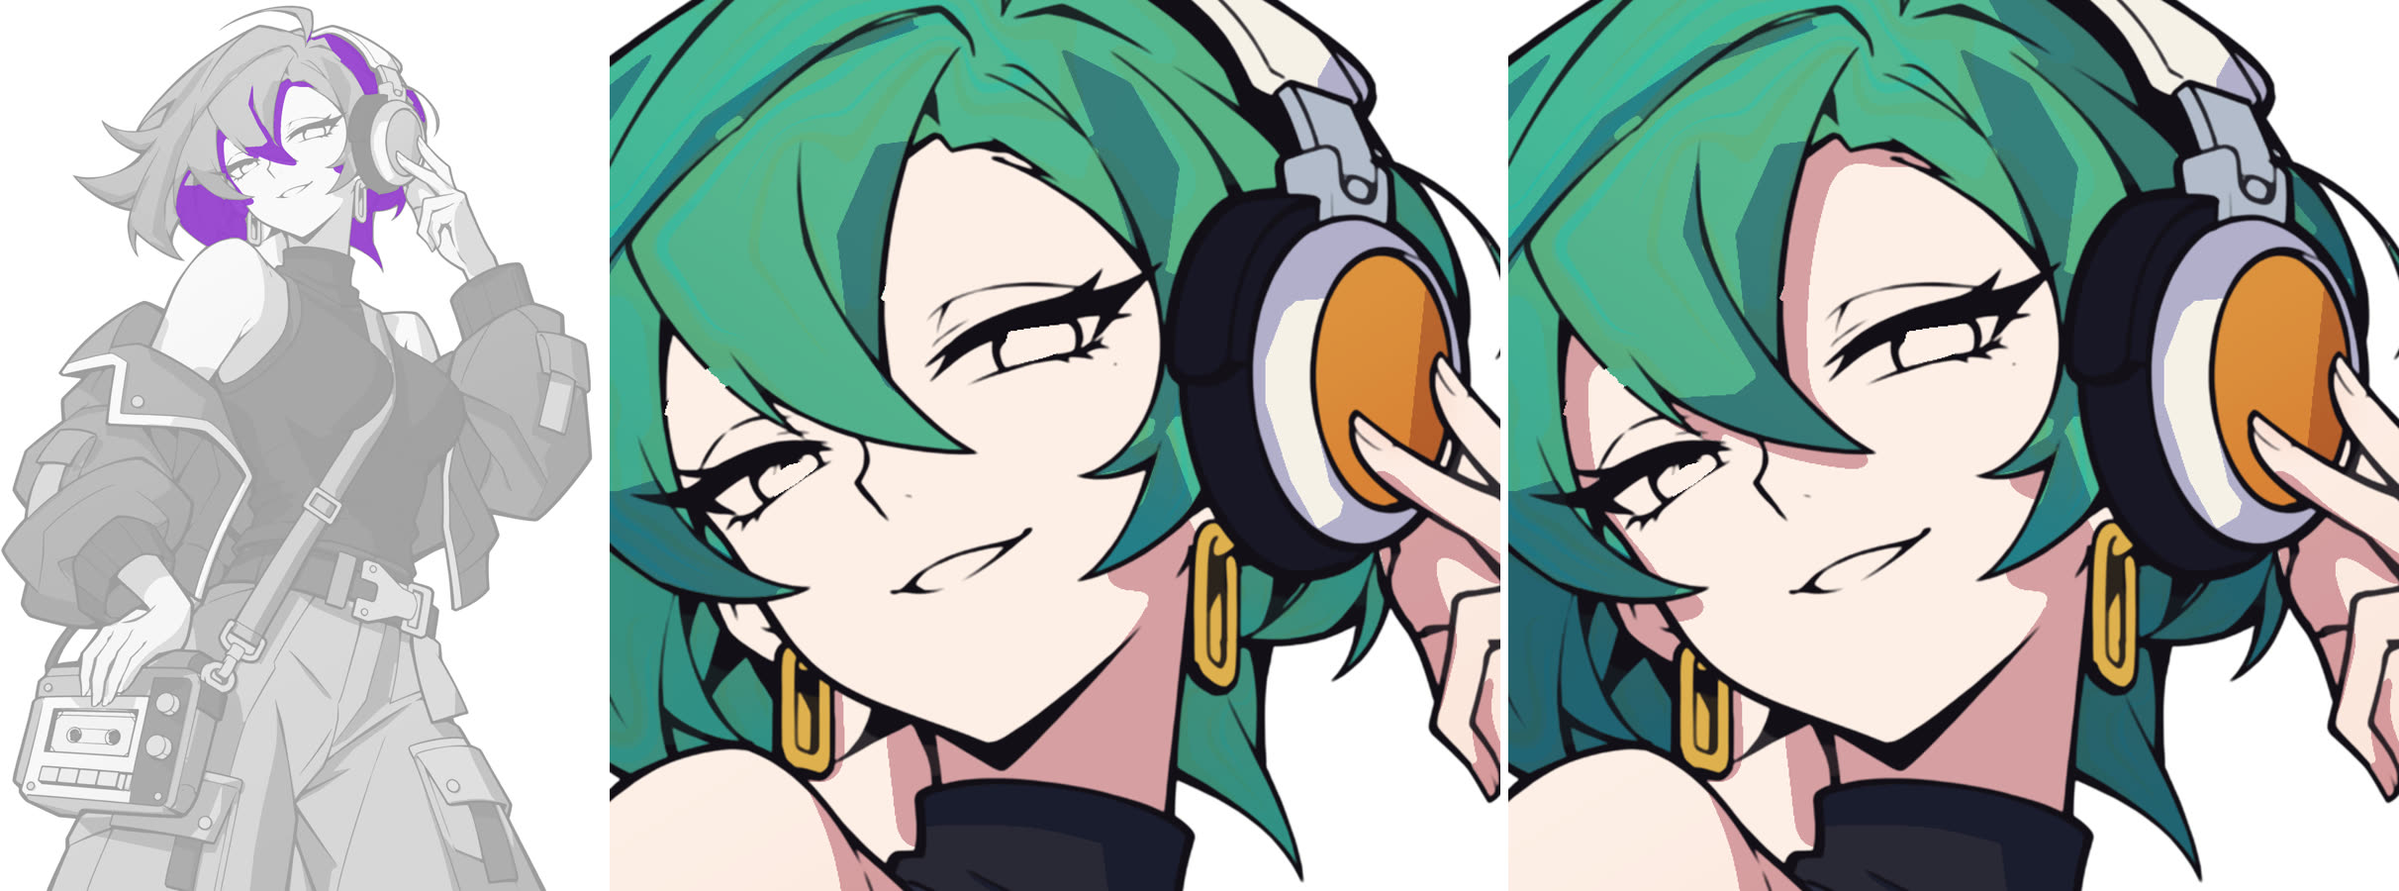
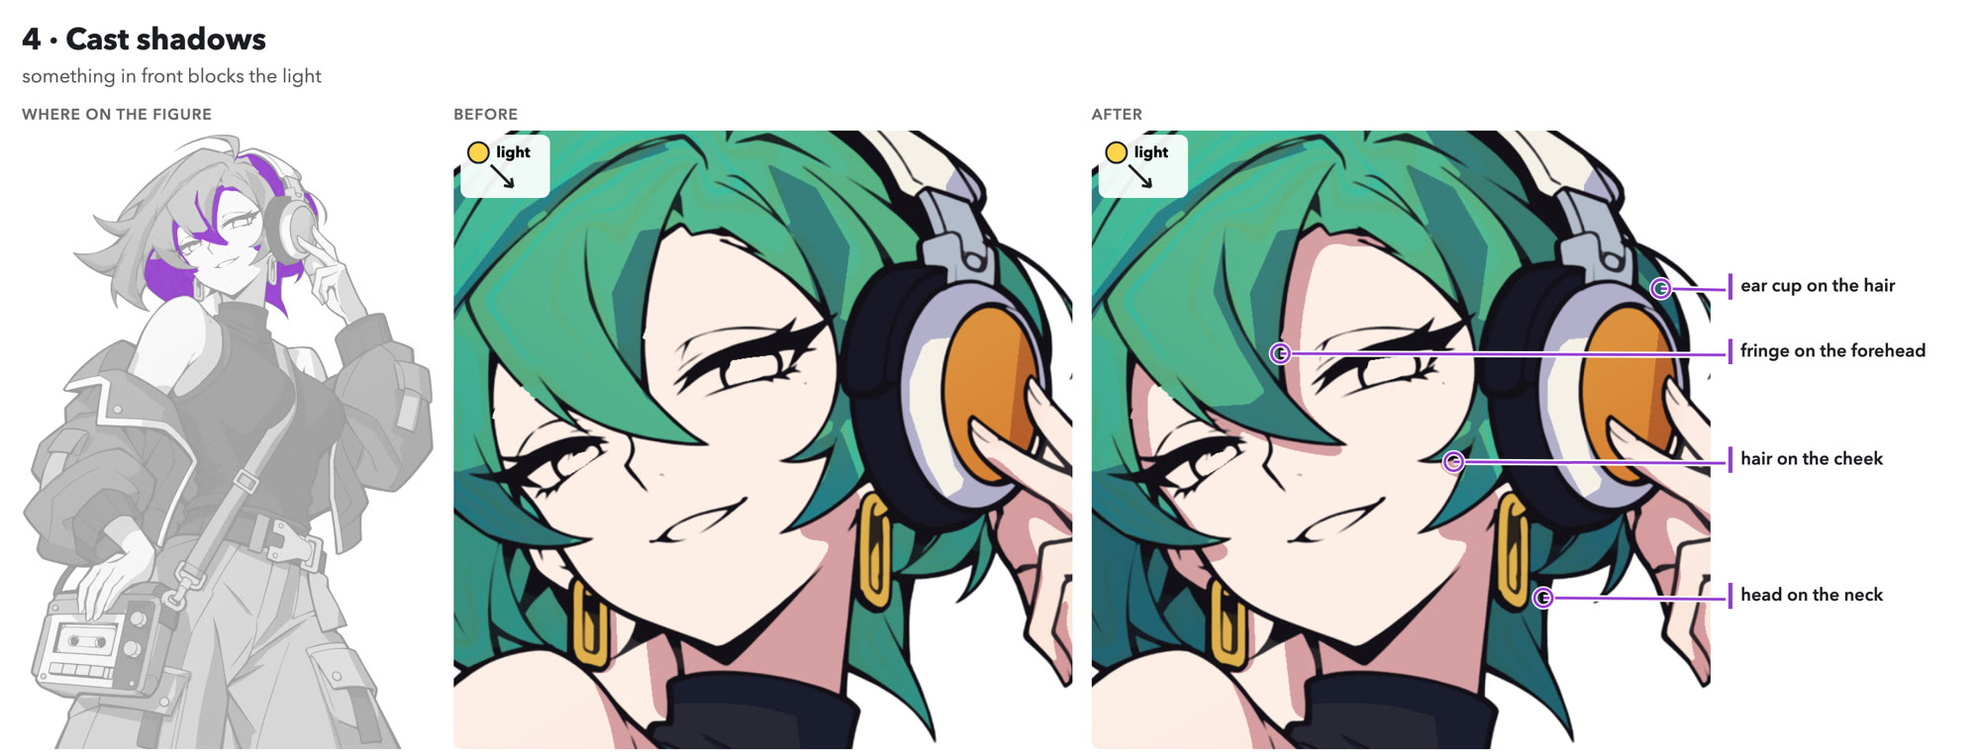
Guide: images explain themselves (labels, arrows, before and after); text says why, not how

diff --git a/docs/guide.md b/docs/guide.md
@@ -1,280 +1,195 @@
-# Rendering anime art from line art to finish
+# How anime illustrations are rendered
 
-Open your clean line art in any drawing program (CLIP STUDIO PAINT, Krita, Procreate, or Photoshop) and follow these steps in order.
+Rendering turns flat line art into light, weight, and form. Each step adds one kind of light or shadow and builds on the last. Read in order and follow the arrows to see what changed.
 
-![Maren](../gallery/guide/00-maren.jpg)
-*Finished render: upper-left light, bright face and shoulder, cool reflected light on the far right edges.*
+![Finished illustration](../gallery/guide/00-maren.jpg)
 
-![Overview](../gallery/guide/01-overview.jpg)
-*From left to right: lines, flats, main shadow, casts, deep shadow, light, bounce light, eyes, and finish.*
+![The whole process](../gallery/guide/01-overview.jpg)
 
-## Before you start
+## Before you paint
 
-**Layers.** Put your line art on top and lock it. Below it, make one folder per part with one flat layer at the bottom. Clip every shading layer to its flat so paint stays inside that shape.
+Pick one light source first and keep it fixed for the whole picture.
 
-From bottom to top, each part uses the same stack:
+![Colour plans](../gallery/guide/a-plans.jpg)
 
-1. **Flat** (Normal)
-2. **Gradient** (Normal)
-3. **Half tone** (Multiply)
-4. **Shadow 1** (Multiply), plus **Cast shadow** (Multiply) above it
-5. **Shadow edge** (Multiply)
-6. **Shadow lift** (Color Dodge)
-7. **Shadow 2** (Multiply)
-8. **Light** (Normal)
-9. **Reflected light** (Normal)
+Test several colour ideas while the drawing is still simple. Viewing options small and in three values shows at once which plan draws the eye to the face and which ones blur together. Changing direction here takes minutes instead of hours.
 
-**One light source.** Pick one light direction first and keep it fixed. Here it comes from the upper left, so right and lower sides turn into shadow.
+![Value check in grey](../gallery/guide/a-values.jpg)
 
-## Plan
+Value—how light or dark a colour is—does the heavy work. Colour sets mood, but value separates shapes and guides the eye. Checking in grey strips away colour so weak contrast stands out immediately.
 
-Check your palette, values, simple forms, and shadow shapes before shading.
+![Form as simple solids](../gallery/guide/a-form.jpg)
 
-![Plans](../gallery/guide/a-plans.jpg)
-*Four colour plans in three values and stamp size. Plan A wins: mid-green hair, lightest face, black top as anchor, dark teal jacket, pale trousers.*
+Line art is flat, yet light strikes solid surfaces. Picture every part as simple solids: cylinders, boxes, and cloth draped over them. Once you see which way a surface faces, shading stops being guesswork.
 
-![Values](../gallery/guide/a-values.jpg)
-*Flats in grey, three values, and final in grey. Toggle a top black layer in **Color** mode after every step.*
+![Where the light falls](../gallery/guide/a-light-map.jpg)
 
-![Form](../gallery/guide/a-form.jpg)
-*Figure as simple solids from five angles. Think cylinders and boxes before shading.*
-
-![Light map](../gallery/guide/a-light-map.jpg)
-*Left: light map (pale yellow lit, blue turned away, violet cast, teal far edge for reflected light). Right: shadow shapes alone in grey.*
+With your single light source set, decide per form what faces the light, what turns away, and what blocks another surface. Turn that reading into simple shadow shapes before painting detail. Planning the shadow pattern first keeps lighting consistent from head to toe.
 
 ## Step by step
 
-In Steps 2 to 14, left shows where this step sits on the figure, middle is a close-up before, and right is after.
+### 1 · Flat colours
 
-### 1. Flats
-![Flats](../gallery/guide/02-flats.jpg)
-*Lines on the left, one flat colour per part on the right.*
+![1 · Flat colours](../gallery/guide/02-flats.jpg)
 
-**Why:** Clean flats lock in your values and give every shading layer a shape to clip to.
+Flat colours lock in your value groups and separate every part before light enters. Without clean, solid flats, later shading blends parts together.
 
-**How:**
-1. Make one `Flat` (**Normal**) layer per part under the line art.
-2. Pick values first: face lightest, hair mid, top darkest.
-3. Fill each part with the **fill bucket** (gap-closing on), or **lasso** and fill open shapes.
-4. Hide the white background and fix white specks along lines with a **hard brush**.
+- Decide what is light, mid, and dark before choosing exact colours.
+- Keep the head and face easy to spot against what surrounds them.
+- Fill every shape cleanly up to the lines.
 
-**Done when:** Every part is solid, speck-free, and separates cleanly in greyscale.
+### 2 · Colour shifts
 
-### 2. Colour gradients
-![Colour gradients](../gallery/guide/03-colour.jpg)
-*Subtle shifts across the flats; hair shifts from green to teal toward the tips.*
+![2 · Colour shifts](../gallery/guide/03-colour.jpg)
 
-**Why:** Gentle colour shifts keep large flats alive without disturbing your values.
+Large flat shapes can feel stiff, like stickers. A gentle colour shift across a big area adds life without disturbing your values.
 
-**How:**
-1. Add a clipped `Gradient` (**Normal**) layer above each flat with a large **soft airbrush** at low opacity.
-2. Shift the hair from green to teal toward the tips.
-3. Darken the lower jacket and trousers slightly, and warm the skin at the hands.
-4. Keep it subtle — if you spot the gradient first, lower its opacity.
+- Shift colour slowly across large shapes like hair or wide cloth.
+- Keep lightness almost unchanged so big shapes stay clear.
+- Keep it subtle; if you spot the shift first, pull it back.
 
-**Done when:** Big flats feel richer top to bottom while holding the same greyscale read.
+### 3 · Main shadow
 
-### 3. Main shadow (Shadow 1)
-![Main shadow](../gallery/guide/04-shadow.jpg)
-*Hard-edged main shadows on every right and lower plane turned away from upper-left light.*
+![3 · Main shadow](../gallery/guide/04-shadow.jpg)
 
-**Why:** This is the most important step — big, clear shadow shapes make the figure look solid.
+This is the most important step. Big, simple shadows on every side turned away from the light give flat lines immediate solidity. Without them, later polish floats on a flat drawing.
 
-**How:**
-1. Add a clipped `Shadow 1` layer in **Multiply** mode (Multiply darkens and tints whatever sits underneath).
-2. Pick a light cool lavender-blue, never grey or black: skin `#d9aab5`, jacket `#ada5d0`, top `#a3b0de`, trousers `#b491ba`, hair `#a8b0db`.
-3. Use a hard-edged **lasso** fill on every right and lower side turned away from the light.
-4. Paint big simple shapes: one clean edge, the other ending in a point.
-5. Land edges on a drawn line or clearly across the form — never a few pixels beside a line.
+- Use a darker, cooler version of the base colour, never grey or black.
+- Give each shape one clean side and one pointed end; place edges on a drawn line or clearly across the form, never just beside a line.
+- Few large shapes beat many small ones, and simple beats strictly correct.
 
-**Done when:** Hiding the flats leaves simple shadow shapes that describe the whole pose.
+Common mistake: hugging every outline with thin shadows instead of grouping planes into big shapes.
 
-### 4. Cast shadows
-![Cast shadows](../gallery/guide/05-cast.jpg)
-*Hard shadows cast by hair onto face and neck, headphones onto hair, and fingers onto the headphone.*
+### 4 · Cast shadows
 
-**Why:** Cast shadows tell distance so hair, straps, and hands sit solidly on what is behind them.
+![4 · Cast shadows](../gallery/guide/05-cast.jpg)
 
-**How:**
-1. Add a clipped `Cast shadow` (**Multiply**) layer above `Shadow 1` with the same shadow colour.
-2. Find every overlapping piece: hair on face and neck, headphones on hair, hand on headphone and player, strap on top.
-3. Copy the caster's silhouette with the **lasso**, shift it down-right (away from light), and fill with a hard edge.
-4. Keep them bold even if they look like blots — softening them loses depth.
+Cast shadows tell distance. Anything standing in front of a surface throws its own shape onto what sits behind it. Without them, overlapping parts look pasted flat.
 
-**Done when:** Every part standing off a surface casts a crisp shadow behind it.
+- Echo the blocking shape, shifted away from the light.
+- Keep edges sharp and bold, even if a shadow looks like a blot.
 
-### 5. Half tone
-![Half tone](../gallery/guide/06-halftone.jpg)
-*A narrow pale band along the lit side of each main shadow on the arm and sleeve.*
+Common mistake: softening cast shadows until overlaps lose depth.
 
-**Why:** A narrow third value where forms start to turn makes them look round, not cut paper.
+### 5 · Half tone
 
-**How:**
-1. Add a clipped `Half tone` (**Multiply**) layer **below** `Shadow 1`.
-2. Pick a very light cool tint (around `#d8dcef`).
-3. Use a **hard brush** or **lasso** to paint a narrow band along the lit edge of curved main shadows.
-4. Keep it narrow and skip sharp corners — wide bands eat the lit side.
+![5 · Half tone](../gallery/guide/06-halftone.jpg)
 
-**Done when:** Arms, sleeves, and folds step cleanly from light to half tone to shadow.
+Lit and shadowed shapes alone make curved forms look like cut paper. A third, light step where a form starts to turn makes it feel round.
 
-### 6. Shadow edge
-![Shadow edge](../gallery/guide/07-edge.jpg)
-*A thin, warm band along the light-to-shadow boundary on the shoulder.*
+- Keep the band narrow so it does not eat the lit side.
+- Use it on curving forms and skip sharp corners.
 
-**Why:** Light passes slightly through skin at the shadow edge, leaving a narrow rim of richer, warmer colour.
+### 6 · Shadow edge
 
-**How:**
-1. Add a clipped `Shadow edge` (**Multiply**) layer right above `Shadow 1`.
-2. On skin especially, pick a richer, warmer peach-orange than your main shadow.
-3. With a small **soft airbrush**, trace a tight band right along the light-to-shadow boundary.
-4. Keep it narrow so it never muddies the lit side or turns skin sunburnt.
+![6 · Shadow edge](../gallery/guide/07-edge.jpg)
 
-**Done when:** Skin shadow edges look softly warm instead of chalky.
+On skin, light passes slightly through the surface at the turn and leaves a thin band of richer, warmer colour. Without it, skin shadows feel chalky.
 
-### 7. Deep shadow (Shadow 2)
-![Deep shadow](../gallery/guide/08-deep.jpg)
-*Small dark violet pockets tucked under the collar, inside sleeve folds, and in the arm crease.*
+- Keep the band thin along the exact light-to-shadow border.
+- Make it warmer and richer than the shadow beside it.
 
-**Why:** Small pockets where no light reaches give weight to folds, creases, and deep overlaps.
+Common mistake: spreading it too wide so skin looks sunburnt.
 
-**How:**
-1. Add a clipped `Shadow 2` (**Multiply**) layer above `Shadow edge`.
-2. Pick a darker, more violet shadow: skin `#b48eac`, jacket `#8a73ad`, top `#8389b6`.
-3. Use a **hard brush** or **lasso** only in small recesses: under the chin, armpit, inside folds, jacket lining against the body, and right beside casters.
-4. Use near-black only under parts standing far off; never outline every main shadow.
+### 7 · Deep shadow
 
-**Done when:** Deep creases feel grounded while main shadows still dominate.
+![7 · Deep shadow](../gallery/guide/08-deep.jpg)
 
-### 8. Shadow lift
-![Shadow lift](../gallery/guide/09-lift.jpg)
-*Soft cool lift brushed into the far side of the black top's shadow under the strap.*
+Open shadows still catch stray light. Only tight pockets where no light gets in—an armpit, inside folds, or tucked behind—drop to the darkest tone, giving overlaps weight.
 
-**Why:** Shadows on dark cloth turn into dead black holes unless they lighten and cool far from the light.
+- Keep these shapes small and dark.
+- Use them sparingly; never outline every main shadow.
 
-**How:**
-1. Add a clipped `Shadow lift` layer below `Shadow 2` in **Color Dodge** mode (brightens darks softly without turning them grey; Add/Glow also works).
-2. Pick a near-black blue (`#000717` or `#111721`).
-3. With a **soft airbrush**, brush inside big shadows on the side farthest from the light.
-4. Never use bright blue on Color Dodge — it blows out instantly.
+### 8 · Shadow lift
 
-**Done when:** Dark cloth shadows stay dark yet shift softly cooler away from the light.
+![8 · Shadow lift](../gallery/guide/09-lift.jpg)
 
-### 9. Light
-![Light](../gallery/guide/10-light.jpg)
-*Green highlight blocks on the hair locks, lit planes on cloth, and a soft sheen on the dark top.*
+Big shadows, especially on dark cloth, can turn into dead holes. Lightening and cooling the shadow far from the light keeps form visible in the darks.
 
-**Why:** Controlled lit shapes show where the light strikes directly and give hair and cloth clear planes.
+- Lift gently far from the light so dark cloth stays dark.
+- Shift it cooler so it stays behind the lit side.
 
-**How:**
-1. Add a clipped `Light` (**Normal**) layer above `Shadow 2`.
-2. **Eyedrop** the flat colour, then nudge it lighter and slightly less saturated.
-3. Paint one highlight block per hair lock with a wavy lower edge (`#9ed1ad` on green hair), lit planes on cloth, and a soft cool sheen on the dark top.
-4. Skip white shiny spots on skin or matte cloth.
+### 9 · Light
 
-**Done when:** Hair catches crisp highlights and dark cloth shows form without turning glossy.
+![9 · Light](../gallery/guide/10-light.jpg)
 
-### 10. Reflected light
-![Reflected light](../gallery/guide/11-bounce.jpg)
-*Hard, pointed bands of cool blue reflected light along the back edges of the black top and sleeve.*
+Bright shapes on planes facing the light add clarity and pull attention upward. Keeping them selective shows which surfaces catch light directly.
 
-**Why:** Bounce light from the surroundings rounds forms and separates dark back edges from the background.
+- Paint one highlight block per hair lock.
+- Skip white shiny spots on skin and matte cloth.
 
-**How:**
-1. Add a clipped `Reflected light` (**Normal**) layer at the top of each part's stack.
-2. Pick the colour from the surroundings: cool blue on cloth (`#3d638e` jacket, `#3d5387` top) and peach on skin (`#f1b2a0`).
-3. Use a **hard brush** or **lasso** to paint a crisp band along far shadow edges with open air behind (right and lower edges), pointed at both ends.
-4. Keep it always darker than the lit side — brighter bounce light reverses the lighting.
+### 10 · Reflected light
 
-**Done when:** Right and lower shadow edges separate cleanly without fighting the upper-left light.
+![10 · Reflected light](../gallery/guide/11-bounce.jpg)
 
-### 11. Metal and plastic
-![Metal and plastic](../gallery/guide/12-metal.jpg)
-*Dark cores right beside bright rims and sharp glints turn the flat buckle and strap clip into metal.*
+Light bounces from the surroundings onto far shadowed edges with air behind them. That rim rounds out dark forms and separates them from the background.
 
-**Why:** Contrasting sharp metal and smooth plastic against matte cloth makes every material believable.
+- Shape it as a crisp band pointed at both ends along far edges.
+- Colour it with what surrounds the figure.
+- Keep it always darker than the lit side, or the light reverses.
 
-**How:**
-1. On metal (belt buckle, strap clip, snaps, earrings), paint on clipped **Normal** layers with a **hard brush** or **lasso**.
-2. Put the darkest core right next to a bright lit rim — skip soft grey gradients, which read as clay.
-3. Add one sharp white glint per metal piece on its lit corner.
-4. On plastic (headphones, player case), use a **soft airbrush** for a broad, smooth highlight.
+### 11 · Materials
 
-**Done when:** Metal, plastic, and matte cloth read differently even in greyscale.
+![11 · Materials](../gallery/guide/12-metal.jpg)
 
-### 12. Skin warmth and blush
-![Skin warmth and blush](../gallery/guide/13-skin.jpg)
-*An orange Overlay warms the skin shadows, and soft pink blush brings life to the cheeks.*
+Shading every surface the same turns metal, plastic, and cloth into clay. Distinct light behaviour makes each material believable.
 
-**Why:** Skin looks lifeless if shadows read cold or grey; warmth and blush restore natural colour.
+- Metal puts its darkest tone right beside its brightest, plus a sharp glint.
+- Plastic takes a broad, soft shine.
+- Cloth stays matte with no sharp shine.
 
-**How:**
-1. Inside the skin and face folders, add a clipped **Overlay** layer (boosts warmth and contrast without covering paint below).
-2. With a **soft airbrush**, brush soft orange over the skin shadows so none read grey.
-3. Add a clipped **Normal** layer and dab soft pink blush on cheeks, ears, and knuckles.
-4. Lower opacity if it looks sunburnt.
+### 12 · Warm skin
 
-**Done when:** Skin shadows read warm peach and the cheeks carry a subtle glow.
+![12 · Warm skin](../gallery/guide/13-skin.jpg)
 
-### 13. Eyes and face
-![Eyes and face](../gallery/guide/14-face.jpg)
-*Shaded eyes with crisp lights, solid dark green brows, and an almost flat face.*
+Cool shadows suit clothing, but skin looks lifeless if its shade leans grey. Warming skin shade and adding a touch of blush brings back life.
 
-**Why:** Eyes draw attention first, and keeping the rest of the face simple preserves a clean anime expression.
+- Keep skin shade warm, never grey.
+- Add a soft touch of blush where skin feels thin, like cheeks.
 
-**How:**
-1. Paint strictly between the eye and mouth lines below the line art — never redraw those lines.
-2. Fill the eye white with the upper lid's shadow across the top.
-3. Shade the iris dark above, lighter and more saturated below, add the pupil, then one big white light and a few small sparks.
-4. Paint brows as one solid tapered shape in the hair's dark colour.
-5. Keep the face almost flat: hair cast shadow, tiny nose mark, and a sliver under the jaw.
+### 13 · Eyes and face
 
-**Done when:** The eyes sparkle clearly and the face stays clean at normal zoom.
+![13 · Eyes and face](../gallery/guide/14-face.jpg)
 
-### 14. Line colour
-![Line colour](../gallery/guide/15-linecolour.jpg)
-*Inner skin crease lines turn warm brown while outer silhouette and overlap lines stay dark.*
+Viewers look at the eyes first. Heavy shading across the face breaks a clean anime expression, so keep the face quiet and put contrast in the eyes.
 
-**Why:** Tinting inner lines softens harsh black ink on skin and hair while keeping the outline crisp.
+- Keep the face almost flat.
+- Paint between the eye and mouth lines, never over them.
+- Shade the iris dark at the top and brighter at the bottom with lights; paint each brow as one solid shape.
 
-**How:**
-1. Add a **Normal** layer above the line art and clip it to the line art.
-2. **Eyedrop** the flat beside an inner line, shift a step darker, and paint inner lines: warm brown on skin, dark green in hair.
-3. Keep the outer silhouette and major overlaps dark.
-4. Avoid lightening every line equally, which washes out the drawing.
+### 14 · Line colour
 
-**Done when:** Inner lines sit softly in skin and hair while the silhouette stays strong.
+![14 · Line colour](../gallery/guide/15-linecolour.jpg)
 
-### 15. Finish
-![Finish](../gallery/guide/16-finish.jpg)
-*Before on the left, after on the right: warm-to-cool wash, paler back hair, fine coloured grain, and a small glow.*
+Dark lines everywhere look harsh against bright skin or hair. Tinting inner lines lets detail sit naturally in the paint while the outline stays strong.
 
-**Why:** A subtle unifying pass pulls separate parts into one shared light and atmosphere.
+- Colour inner lines with a darker version of the colour they sit on.
+- Keep the outline and lines between overlapping parts dark.
 
-**How:**
-1. Above everything, add a low-opacity **Multiply** layer and airbrush warm light on the upper left and cool shade on the far side.
-2. Make parts further back slightly paler and bluer so the foreground pops.
-3. Add fine coloured grain on a **Linear Light** layer (adds crisp micro-texture) at low opacity, strongest in the darks.
-4. Add a small, subtle glow on the brightest edge — if you notice the effect before the character, lower its opacity.
+Common mistake: lightening every line equally, which washes out the drawing.
 
-**Done when:** Toggling the finish layers adds subtle cohesion without shifting your colours or values.
+### 15 · Finish
 
-## Finished layers
+![15 · Finish](../gallery/guide/16-finish.jpg)
 
-![Layers](../gallery/guide/z-layers.jpg)
-*Top: the picture built layer type by layer type. Below: one folder per part, each with the same clipped stack.*
+Parts painted one by one can feel slightly separate. A light final pass pulls every colour and shadow into one shared light.
 
-One folder per part with identical clipped layers lets you adjust any shadow or colour later without repainting neighbours.
+- Add a subtle warm tint toward the light and a cool tint away from it.
+- Make parts further back slightly paler and bluer.
+- Add fine grain to tie the surface together.
 
-## Check
+Common mistake: letting effects stand out; if you notice them first, pull back.
 
-- **Greyscale.** Toggle your top black `Color` layer — the face should read first and big shapes stay apart.
-- **Squint.** Zoom to stamp size or squint; main light and shadow shapes should still read.
-- **200–400% zoom.** Pan piece by piece for white specks, stray pixels, or sloppy edges.
-- **Fresh eyes.** Step away for an hour (or flip the canvas) and compare beside art you admire.
+## Check your work
+
+- **Check in grey.** Make sure the face reads first and big shapes stay apart.
+- **Squint or shrink to stamp size.** Main light and shadow shapes should still read clearly.
+- **Zoom in.** Clean up rough edges and stray gaps up close.
+- **Fresh eyes.** Step away, then compare beside work you admire.
 
 ## Practice
 
-- **Four plans:** Flat one drawing in four palettes, view in greyscale and stamp size, and pick the one where the head reads first.
-- **Shadow-only pass:** Shade a jacket or trousers on one clipped Multiply layer using at most five shapes; hide the flat to verify the shadows read alone.
-- **Cast pass:** Paint hard cast shadows under every overlapping part (hair, straps, hands, gear) from one light direction.
-- **Three materials:** Render three identical cylinders under upper-left light as matte cloth, smooth plastic, and shiny metal.
+- **Five-shape shadows.** Shade a figure or jacket with one shadow colour and five shapes only.
+- **Cast shadows only.** Over flat colours, paint only the sharp shadows thrown by overlapping parts.
+- **Three materials.** Paint one cylinder as matte cloth, smooth plastic, and metal under the same light.
+- **Four colour plans.** Try four colour schemes on one drawing, check them small in three values, and pick the clearest.
